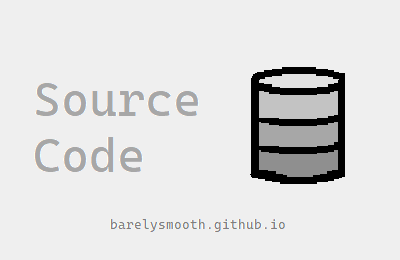
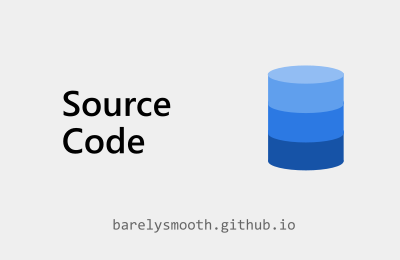
Update images

diff --git a/index.html b/index.html
@@ -72,7 +72,7 @@ as Programming languages!
     <div class="alsoInterestedInText">
         <h4>The source code of this website!</h4>
         <p>This website is open-source. Check out its source code <a href="https://github.com/BarelySmooth/barelysmooth.github.io">here!</a>
-        <br><br> (I drew the picture in the left using MS paint, so it might not be the best looking image, but it's something!)
+        <br><br> (I drew the picture in the left using Inkscape. I hope its better than the one I made using MS Paint 😄)
         </p>
     </div>
 </div>
